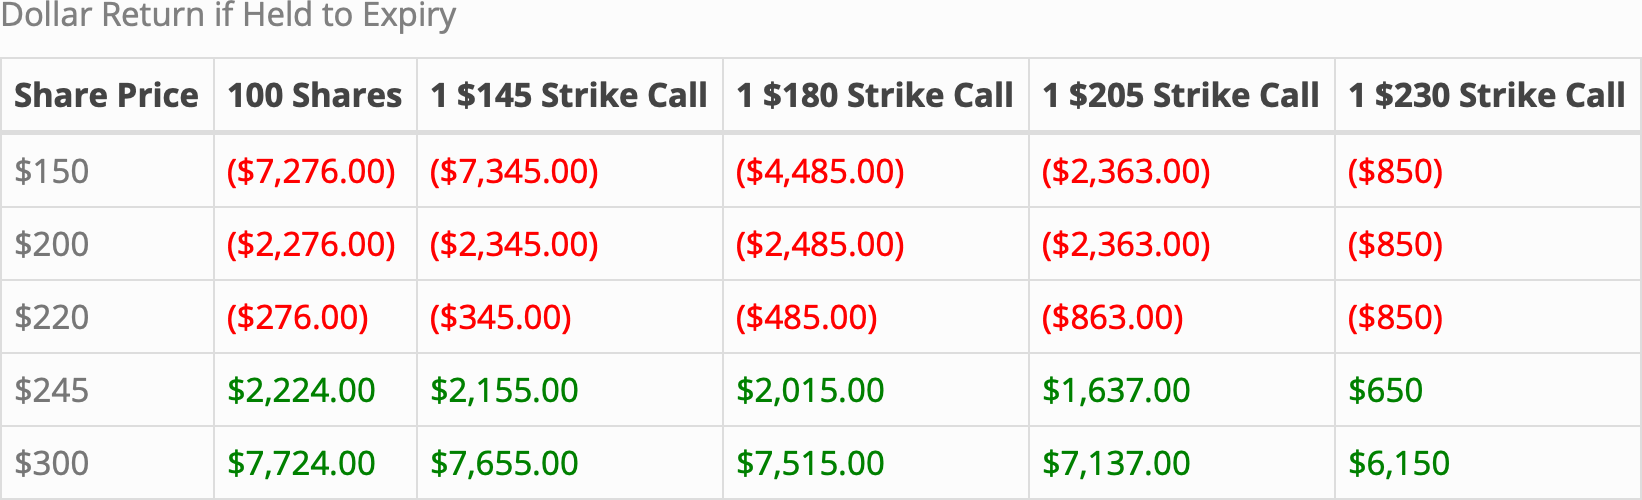
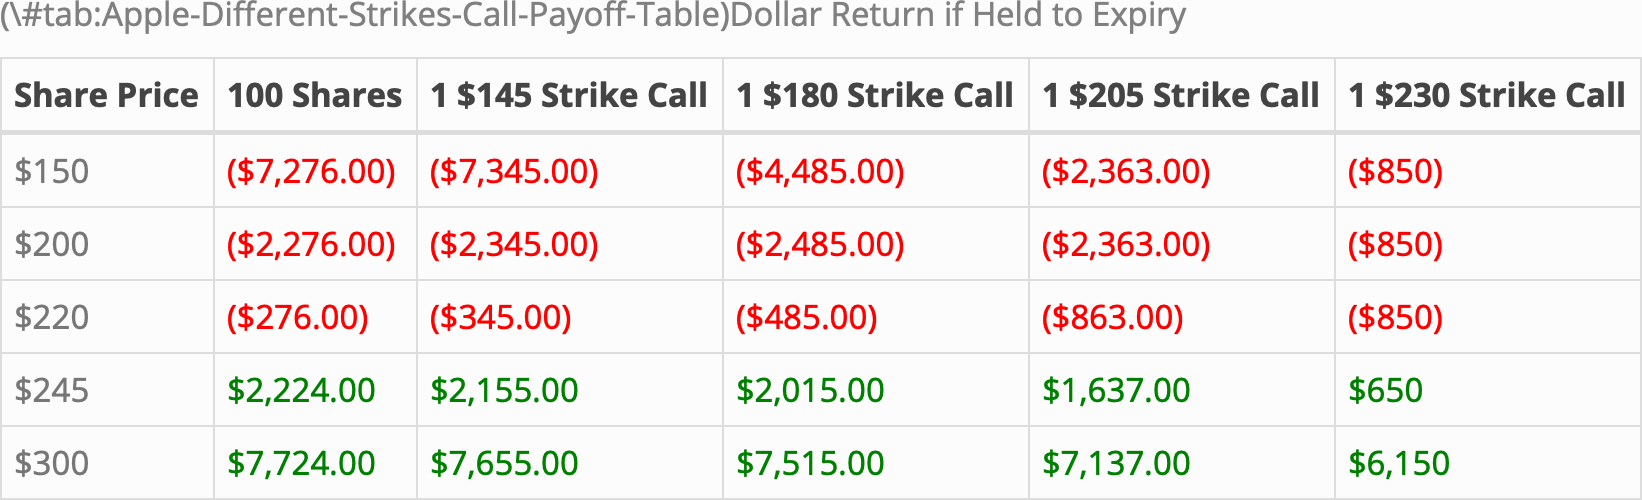
New stock payoff diagram

Changed region(s): [[0.0, 0.0, 0.7454, 0.06]]

diff --git a/tmp-pdfcrop-21373.tex b/tmp-pdfcrop-21373.tex
@@ -1,0 +1,130 @@
+\catcode37 14 % percent
+\catcode33 12 % exclam
+\catcode34 12 % quote
+\catcode35  6 % hash
+\catcode39 12 % apostrophe
+\catcode40 12 % left parenthesis
+\catcode41 12 % right parenthesis
+\catcode45 12 % minus
+\catcode46 12 % period
+\catcode60 12 % less
+\catcode61 12 % equals
+\catcode62 12 % greater
+\catcode64 12 % at
+\catcode91 12 % left square
+\catcode93 12 % right square
+\catcode96 12 % back tick
+\catcode123 1 % left curly brace
+\catcode125 2 % right curly brace
+\catcode126 12 % tilde
+\catcode`\#=6 %
+\escapechar=92 %
+\def\IfUndefined#1#2#3{%
+  \begingroup\expandafter\expandafter\expandafter\endgroup
+  \expandafter\ifx\csname#1\endcsname\relax
+    #2%
+  \else
+    #3%
+  \fi
+}
+\def\pdffilehex{30322D7061796F66662D6469616772616D735F66696C65732F6669677572652D6C617465782F53746F636B2D44656D6F2D312E706466}
+\IfUndefined{pdfunescapehex}{%
+  \begingroup
+    \gdef\pdffile{}%
+    \def\do#1#2{%
+      \ifx\relax#2\relax
+        \ifx\relax#1\relax
+        \else
+          \errmessage{Invalid hex string, should not happen!}%
+        \fi
+      \else
+        \lccode`0="#1#2\relax
+        \lowercase{%
+          \xdef\pdffile{\pdffile0}%
+        }%
+        \expandafter\do
+      \fi
+    }%
+    \expandafter\do\pdffilehex\relax\relax
+  \endgroup
+}{%
+  \edef\pdffile{\pdfunescapehex{\pdffilehex}}%
+}
+\immediate\write-1{Input file: \pdffile}
+\pdfoutput=1 %
+\pdfcompresslevel=9 %
+\csname pdfmapfile\endcsname{}
+\def\setpdfversion#1{%
+  \IfUndefined{pdfobjcompresslevel}{%
+  }{%
+    \ifnum#1<5 %
+      \pdfobjcompresslevel=0 %
+    \else
+      \pdfobjcompresslevel=2 %
+    \fi
+  }%
+  \IfUndefined{pdfminorversion}{%
+    \IfUndefined{pdfoptionpdfminorversion}{%
+    }{%
+      \pdfoptionpdfminorversion=#1\relax
+    }%
+  }{%
+    \pdfminorversion=#1\relax
+  }%
+}
+\def\page #1 [#2 #3 #4 #5]{%
+  \count0=#1\relax
+  \setbox0=\hbox{%
+    \pdfximage page #1 mediabox{\pdffile}%
+    \pdfrefximage\pdflastximage
+  }%
+  \pdfhorigin=-#2bp\relax
+  \pdfvorigin=#3bp\relax
+  \pdfpagewidth=#4bp\relax
+  \advance\pdfpagewidth by -#2bp\relax
+  \pdfpageheight=#5bp\relax
+  \advance\pdfpageheight by -#3bp\relax
+  \ht0=\pdfpageheight
+  \shipout\box0\relax
+}
+\def\pageclip #1 [#2 #3 #4 #5][#6 #7 #8 #9]{%
+  \count0=#1\relax
+  \dimen0=#4bp\relax \advance\dimen0 by -#2bp\relax
+  \edef\imagewidth{\the\dimen0}%
+  \dimen0=#5bp\relax \advance\dimen0 by -#3bp\relax
+  \edef\imageheight{\the\dimen0}%
+  \pdfximage page #1 mediabox{\pdffile}%
+  \setbox0=\hbox{%
+    \kern -#2bp\relax
+    \lower #3bp\hbox{\pdfrefximage\pdflastximage}%
+  }%
+  \wd0=\imagewidth\relax
+  \ht0=\imageheight\relax
+  \dp0=0pt\relax
+  \pdfhorigin=#6pt\relax
+  \pdfvorigin=#7bp\relax
+  \pdfpagewidth=\imagewidth
+  \advance\pdfpagewidth by #6bp\relax
+  \advance\pdfpagewidth by #8bp\relax
+  \pdfpageheight=\imageheight\relax
+  \advance\pdfpageheight by #7bp\relax
+  \advance\pdfpageheight by #9bp\relax
+  \pdfxform0\relax
+  \shipout\hbox{\pdfrefxform\pdflastxform}%
+}%
+\def\pageinclude#1{%
+  \pdfhorigin=0pt\relax
+  \pdfvorigin=0pt\relax
+  \pdfximage page #1 mediabox{\pdffile}%
+  \setbox0=\hbox{\pdfrefximage\pdflastximage}%
+  \pdfpagewidth=\wd0\relax
+  \pdfpageheight=\ht0\relax
+  \advance\pdfpageheight by \dp0\relax
+  \shipout\hbox{%
+    \raise\dp0\box0\relax
+  }%
+}
+\setpdfversion{4}
+\page 1 [5 8 459 310]
+\csname @@end\endcsname
+\end
